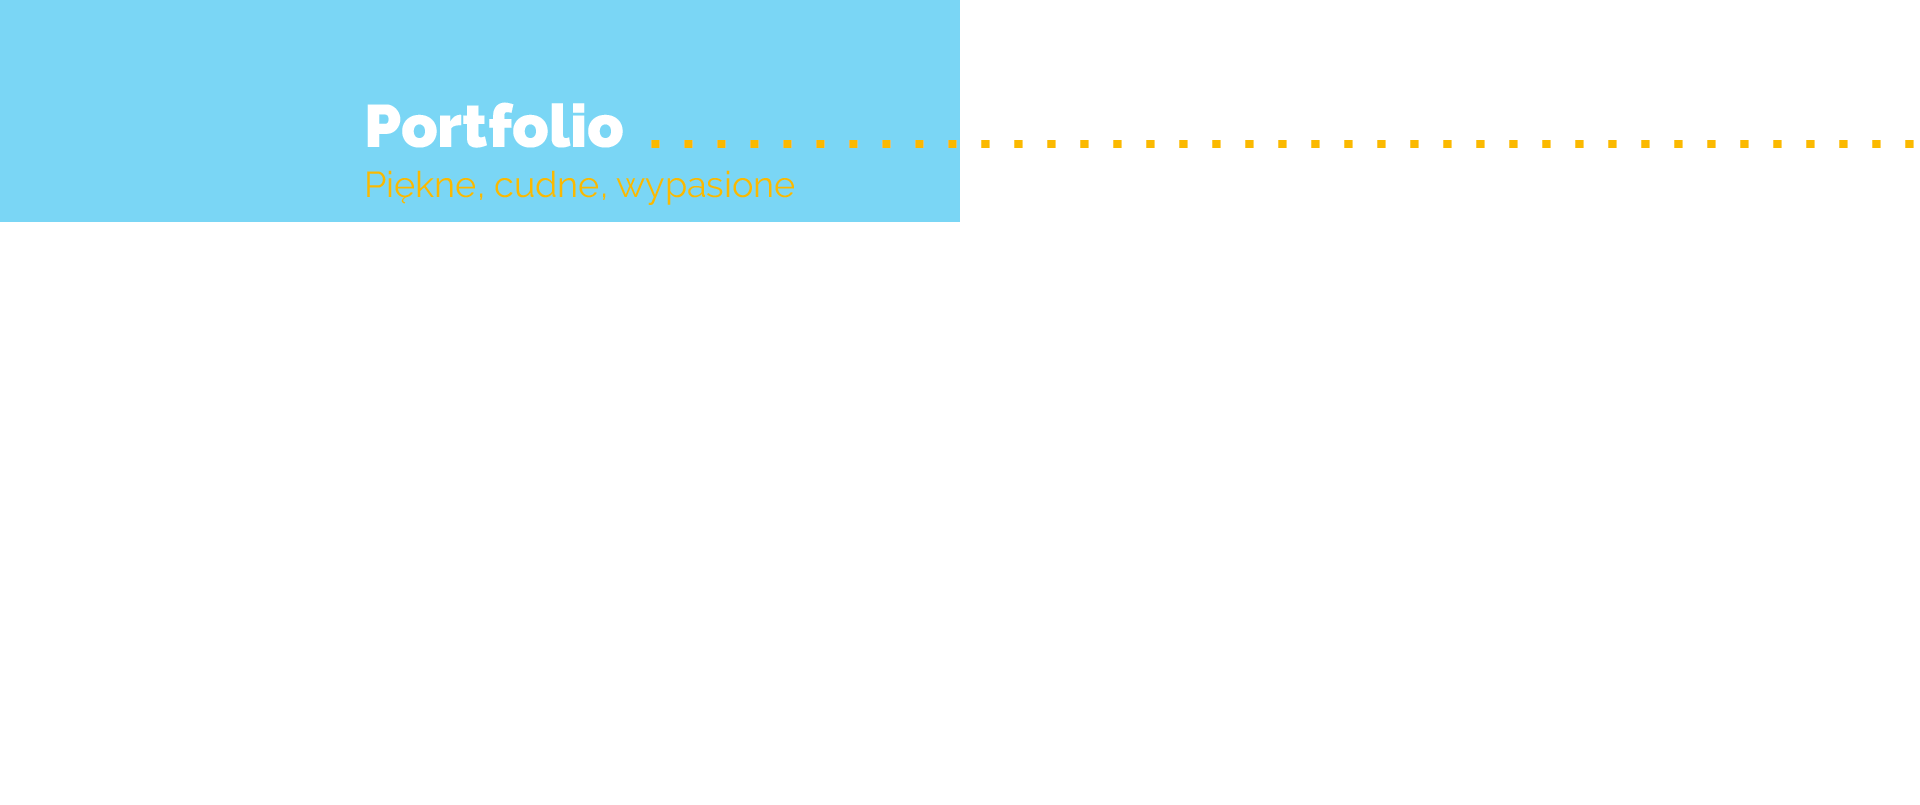
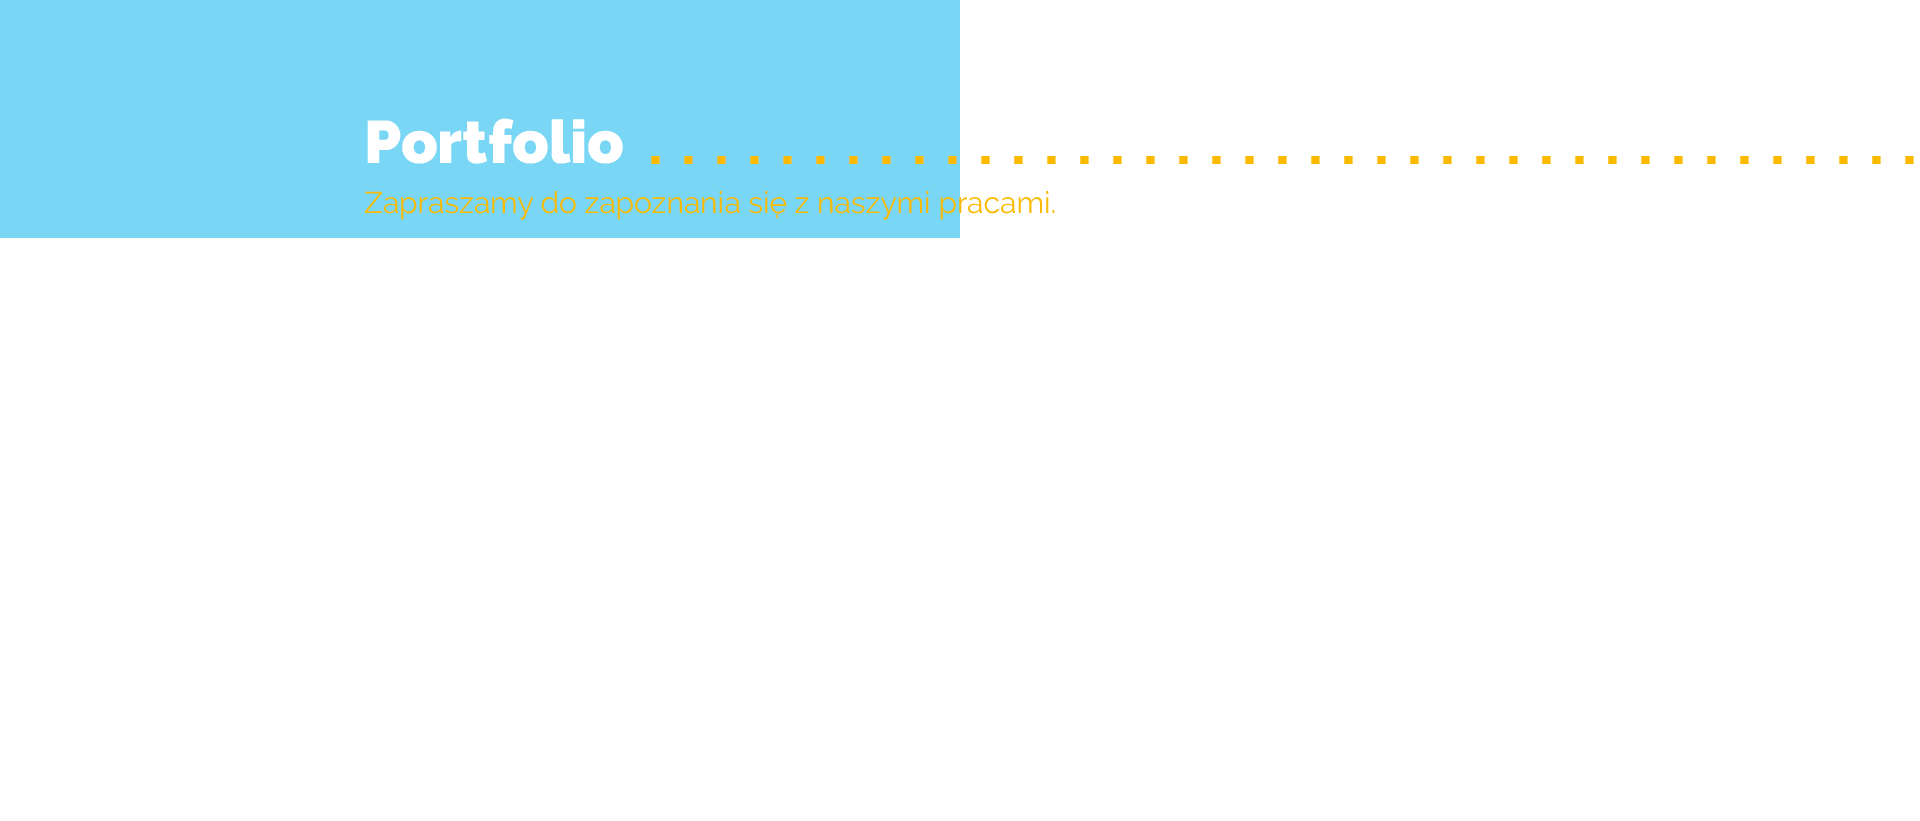
tile

Changed region(s): [[0.0, 0.1242, 0.5312, 0.3106]]

diff --git a/portfolio.html b/portfolio.html
@@ -70,9 +70,9 @@
 
     <div class="blueFotoSection">
         <img class="blueFotoImg" src="img/portfotiioooo.png" alt="tło">
-        <p class="text">Lorem ipsum dolor sit amet, consectetur adipiscing elit, sed do eiusmod tempor incididun.Ut
-            enim ad minim veniam, quis nostrud exercitation ullamco laboris nisi ut aliquip ex ea commodo consequat.
-            Duis aute irure dolor in reprehenderit in voluptate velit esse cillum.</p>
+        <p class="text">Ilość zrealizowanych przez nas projektów ciężko policzyć.<br>
+            Dlatego prezentujemy jedynie część naszych realizacji.<br>
+            Każdej z nich poświęciliśmy wiele uwagi.</p>
 
     </div>
 
@@ -109,61 +109,67 @@
             <!--</div>-->
             <div class="tile graphics all simplyPolandClick">
 
-                <div class="content">Simply Poland
+                <div class="content">
+                    <img src="img/14simplypoland.png">
                 </div>
             </div>
             <div class="tile graphics all onglowClick">
-                <div class="content">Onglow
+                <div class="content">
+                    <img src="img/13ongolov.png">
                 </div>
             </div>
             <div class="tile foto all locomotivaClick">
-                <div class="content">Locomotiva
+                <div class="content">
+                    <img src="img/11locomotiva.png">
                 </div>
             </div>
             <div class="tile video all kopalniaClick">
-                <div class="content">Kopalnia
+                <div class="content">
+                    <img src="img/kopalnia.png">
                 </div>
             </div>
             <div class="tile graphics all jestesmyClick">
-                <div class="content">Jestesmy stad
+                <div class="content">
+                    <img src="img/1cocacola.png">
                 </div>
             </div>
 
             <div class="tile graphics all solpakClick">
-                <div class="content">Solpak
+                <div class="content">
+                    <img src="img/15solpak.png">
                 </div>
             </div>
             <div class="tile foto all guardianClick">
-                <div class="content">Guardian
+                <div class="content"> <img src="img/3guardian.png">
                 </div>
             </div>
             <div class="tile websites all hcgClick">
-                <div class="content">HCG
+                <div class="content"> <img src="img/4HCG.png">
                 </div>
             </div>
             <div class="tile graphics all helveticaClick">
-                <div class="content">Helvetica
+                <div class="content"> <img src="img/5helvetica.png">
                 </div>
             </div>
 
             <div class="tile foto all jakaBoxClick">
-                <div class="content">JakaBox
+                <div class="content"> <img src="img/6jakabox1.png">
                 </div>
             </div>
             <div class="tile graphics all keteClick">
-                <div class="content">Kete
+                <div class="content"> <img src="img/8kete.png">
                 </div>
             </div>
             <div class="tile foto all kitchooClick">
-                <div class="content">Kitchoo
+                <div class="content"> <img src="img/9kitchoo.png">
                 </div>
             </div>
             <div class="tile foto all milooClick">
-                <div class="content">Miloo
+                <div class="content"> <img src="img/12millo.png">
                 </div>
             </div>
             <div class="tile foto all jakaBox2Click">
-                <div class="content">JakaBox2
+                <div class="content"> <img src="img/7jakabox2.png">
                 </div>
             </div>
             <div class="tile graphics all">

diff --git a/portfolio.css b/portfolio.css
@@ -292,6 +292,9 @@ body {
     right: 0;
     left: 0;
 }
+.content img{
+    width:100%;
+}
 
 .simplyPoland {
     display: none;
